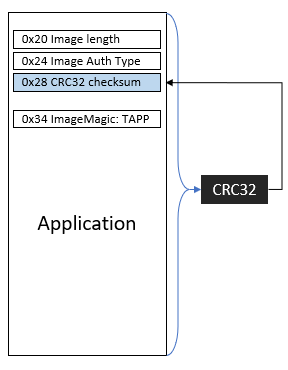
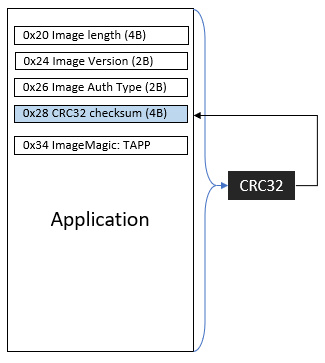
Can make app image #1
- Length, magic

Changed region(s): [[0.0, 0.0303, 1.0, 0.9697], [0.125, 0.5758, 0.4688, 0.6364]]

diff --git a/src/mem/memcore.py b/src/mem/memcore.py
@@ -193,6 +193,24 @@ class tinyOtaMem(runcore.tinyOtaRun):
                 if status != boot.status.kStatus_Success:
                     self.popupMsgBox('Failed to write Flash, error code is %d, You may forget to erase Flash first!' %(status))
 
+    def makeOtaFile( self, fileType = 'stage1Bl' ):
+        if fileType == uidef.kOtaFileType_S1BL:
+            pass
+        elif fileType == uidef.kOtaFileType_APP0:
+            shutil.copy(self.appSlot0File, self.appSlot0FileTemp)
+            self.replaceWordInFile(self.appSlot0FileTemp, memdef.kImageHeaderWordOffset_Length, os.path.getsize(self.appSlot0FileTemp))
+            self.replaceWordInFile(self.appSlot0FileTemp, memdef.kImageHeaderWordOffset_AuthType, memdef.kImageAuthType_CRC32)
+            self.replaceWordInFile(self.appSlot0FileTemp, memdef.kImageHeaderWordOffset_Crc32, 0x0)
+            self.replaceWordInFile(self.appSlot0FileTemp, memdef.kImageHeaderWordOffset_Magic, memdef.kImageHeaderMagicWord_App)
+        elif fileType == uidef.kOtaFileType_APP1:
+            shutil.copy(self.appSlot1File, self.appSlot1FileTemp)
+            self.replaceWordInFile(self.appSlot1FileTemp, memdef.kImageHeaderWordOffset_Length, os.path.getsize(self.appSlot1FileTemp))
+            self.replaceWordInFile(self.appSlot1FileTemp, memdef.kImageHeaderWordOffset_AuthType, memdef.kImageAuthType_CRC32)
+            self.replaceWordInFile(self.appSlot1FileTemp, memdef.kImageHeaderWordOffset_Crc32, 0x0)
+            self.replaceWordInFile(self.appSlot1FileTemp, memdef.kImageHeaderWordOffset_Magic, memdef.kImageHeaderMagicWord_App)
+        else:
+            return
+
     def downloadOtaFile( self, fileType = 'stage0Bl' ):
         memStart = self.otaMemStart
         if fileType == uidef.kOtaFileType_S0BL:
@@ -221,7 +239,8 @@ class tinyOtaMem(runcore.tinyOtaRun):
             if status != boot.status.kStatus_Success:
                 self.popupMsgBox('Failed to erase Flash, error code is %d !' %(status))
                 return
-            shutil.copy(memBinFile, tempMemFile)
+            if not os.path.isfile(tempMemFile):
+                shutil.copy(memBinFile, tempMemFile)
             status, results, cmdStr = self.blhost.writeMemory(memStart, tempMemFile, rundef.kBootDeviceMemId_FlexspiNor)
             try:
                 os.remove(tempMemFile)

diff --git a/src/ui/uicore.py b/src/ui/uicore.py
@@ -9,6 +9,7 @@
 import sys
 import os
 import time
+import struct
 import serial.tools.list_ports
 import pywinusb.hid
 from PyQt5.Qt import *
@@ -624,6 +625,37 @@ class tinyOtaUi(QMainWindow, tinyOtaWin.Ui_tinyOtaWin):
             self.pushButton_downloadAPP0.setEnabled(True)
             self.pushButton_downloadAPP1.setStyleSheet("background-color: white;")
             self.pushButton_downloadAPP1.setEnabled(True)
+        else:
+            pass
+
+    def replaceWordInFile(self, path: str, offset: int, value: int):
+        try:
+            byte_offset = offset * 4
+            with open(path, 'r+b') as f:
+                f.seek(byte_offset)
+                f.write(struct.pack('<I', value))
+        except Exception as e:
+            pass
+
+    def updateOtaMakeStatus( self, operate, state=0 ):
+        if state == 1:
+            if operate == uidef.kOtaFileType_S1BL:
+                self.pushButton_makeS1BL.setStyleSheet("background-color: green;")
+            elif operate == uidef.kOtaFileType_APP0:
+                self.pushButton_makeAPP0.setStyleSheet("background-color: green;")
+            elif operate == uidef.kOtaFileType_APP1:
+                self.pushButton_makeAPP1.setStyleSheet("background-color: green;")
+            else:
+                pass
+        elif state == 0:
+            if operate == uidef.kOtaFileType_S1BL:
+                self.pushButton_makeS1BL.setStyleSheet("background-color: white;")
+            elif operate == uidef.kOtaFileType_APP0:
+                self.pushButton_makeAPP0.setStyleSheet("background-color: white;")
+            elif operate == uidef.kOtaFileType_APP1:
+                self.pushButton_makeAPP1.setStyleSheet("background-color: white;")
+            else:
+                pass
         else:
             pass
 

diff --git a/src/main.py b/src/main.py
@@ -254,23 +254,33 @@ class tinyOtaMain(memcore.tinyOtaMem):
         self.browseOtaFile(uidef.kOtaFileType_S0BL)
     def callbackBrowseS1BL( self ):
         self.browseOtaFile(uidef.kOtaFileType_S1BL)
+        self.updateOtaMakeStatus(uidef.kOtaFileType_S1BL, 0)
     def callbackBrowseAPP0( self ):
         self.browseOtaFile(uidef.kOtaFileType_APP0)
+        self.updateOtaMakeStatus(uidef.kOtaFileType_APP0, 0)
     def callbackBrowseAPP1( self ):
         self.browseOtaFile(uidef.kOtaFileType_APP1)
+        self.updateOtaMakeStatus(uidef.kOtaFileType_APP1, 0)
+
+    def _makeOtaFile( self, fileType ):
+        self.updateOtaMakeStatus(fileType, 1)
+        self.makeOtaFile(fileType)
+
+    def callbackMakeS1BL( self ):
+        self.showImagePiture('boot')
+        self._makeOtaFile(uidef.kOtaFileType_S1BL)
+    def callbackMakeAPP0( self ):
+        self.showImagePiture('app')
+        self._makeOtaFile(uidef.kOtaFileType_APP0)
+    def callbackMakeAPP1( self ):
+        self.showImagePiture('app')
+        self._makeOtaFile(uidef.kOtaFileType_APP1)
 
     def _downloadOtaFile( self, fileType ):
         self.getOtaFileStartAddress(fileType)
         self.updateOtaOperateStatus(fileType, 1)
         self.downloadOtaFile(fileType)
         self.updateOtaOperateStatus(fileType, 0)
-
-    def callbackMakeS1BL( self ):
-        self.showImagePiture('boot')
-    def callbackMakeAPP0( self ):
-        self.showImagePiture('app')
-    def callbackMakeAPP1( self ):
-        self.showImagePiture('app')
 
     def callbackDownloadS0BL( self ):
         self._downloadOtaFile(uidef.kOtaFileType_S0BL)

diff --git a/src/mem/memdef.py b/src/mem/memdef.py
@@ -5,3 +5,12 @@ kAppImageFileExtensionList_S19 = ['.srec', '.s19', '.mot', '.mxt', '.m32', '.s28
 kAppImageFileExtensionList_Hex = ['.hex']
 kAppImageFileExtensionList_Bin = ['.bin']
 
+kImageAuthType_CRC32  = 0
+
+kImageHeaderWordOffset_Length   = 8
+kImageHeaderWordOffset_AuthType = 9
+kImageHeaderWordOffset_Crc32    = 10
+kImageHeaderWordOffset_Magic    = 13
+
+kImageHeaderMagicWord_App    =0x50504154 #0x54 ('T'), 0x41 ('A'), 0x50 ('P'), 0x50 ('P')
+kImageHeaderMagicWord_Boot   =0x4C425354 #0x54 ('T'), 0x53 ('S'), 0x42 ('B'), 0x4C ('L')
